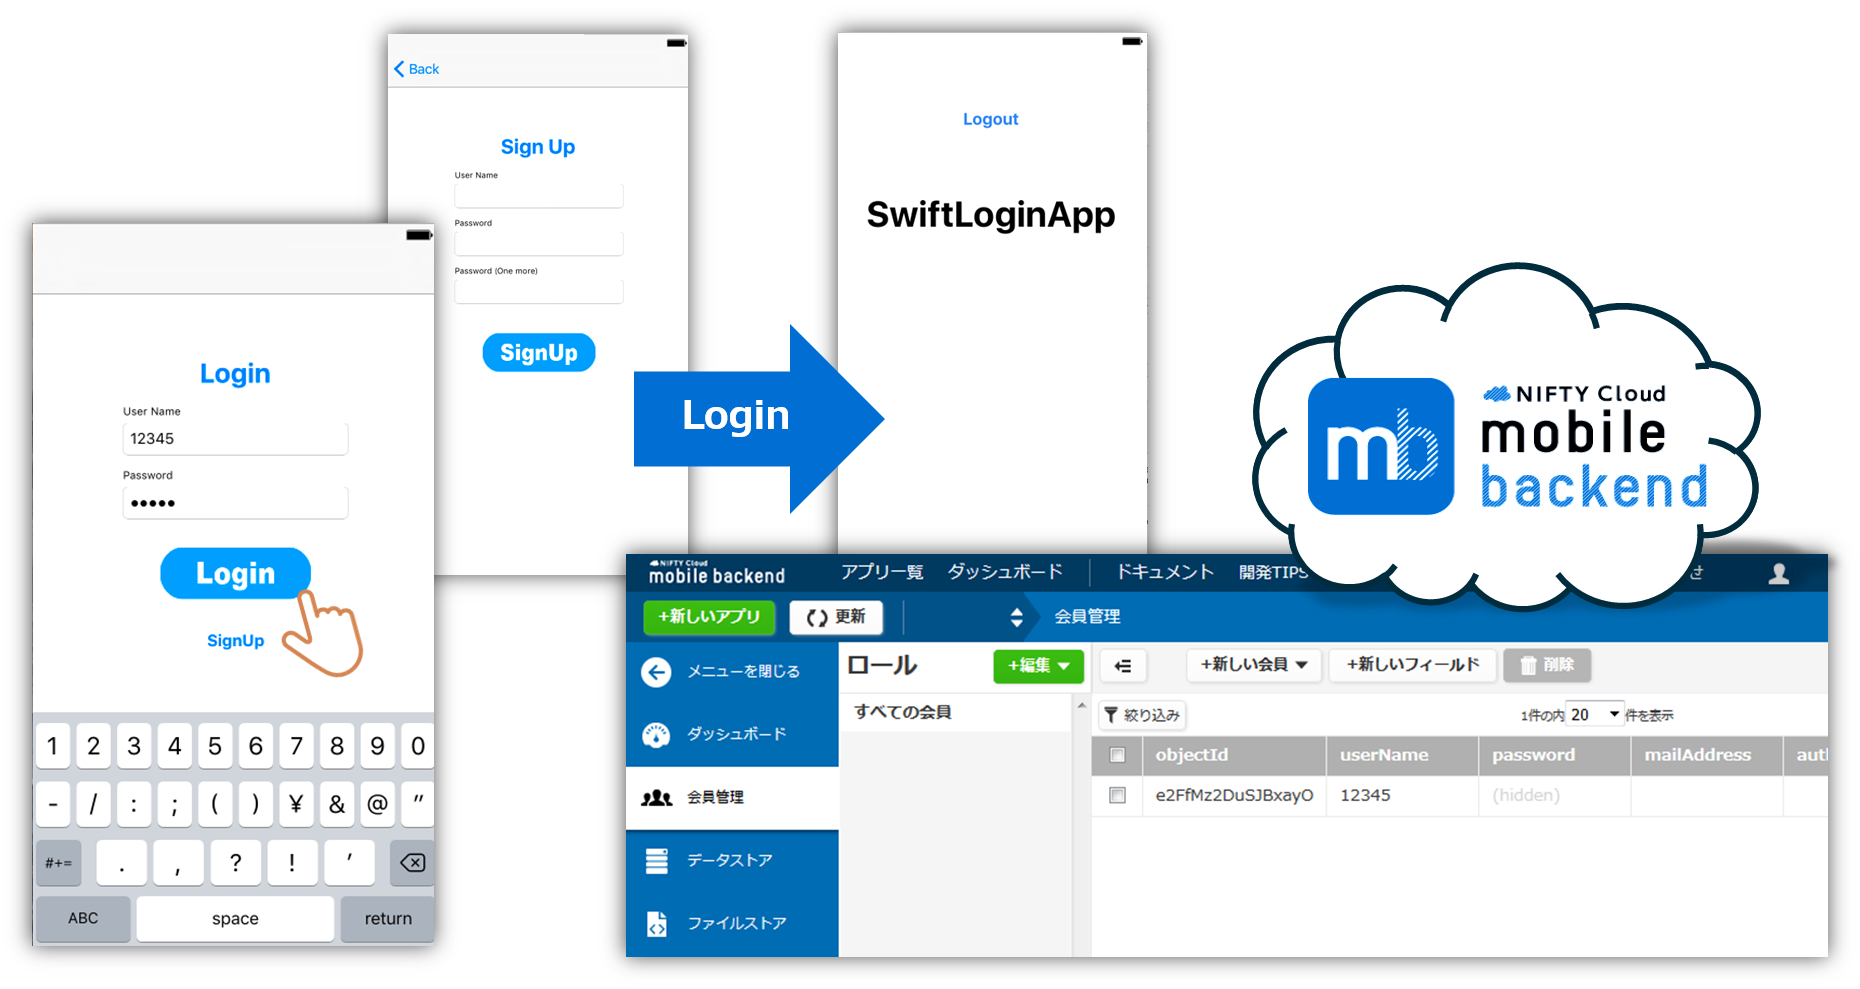
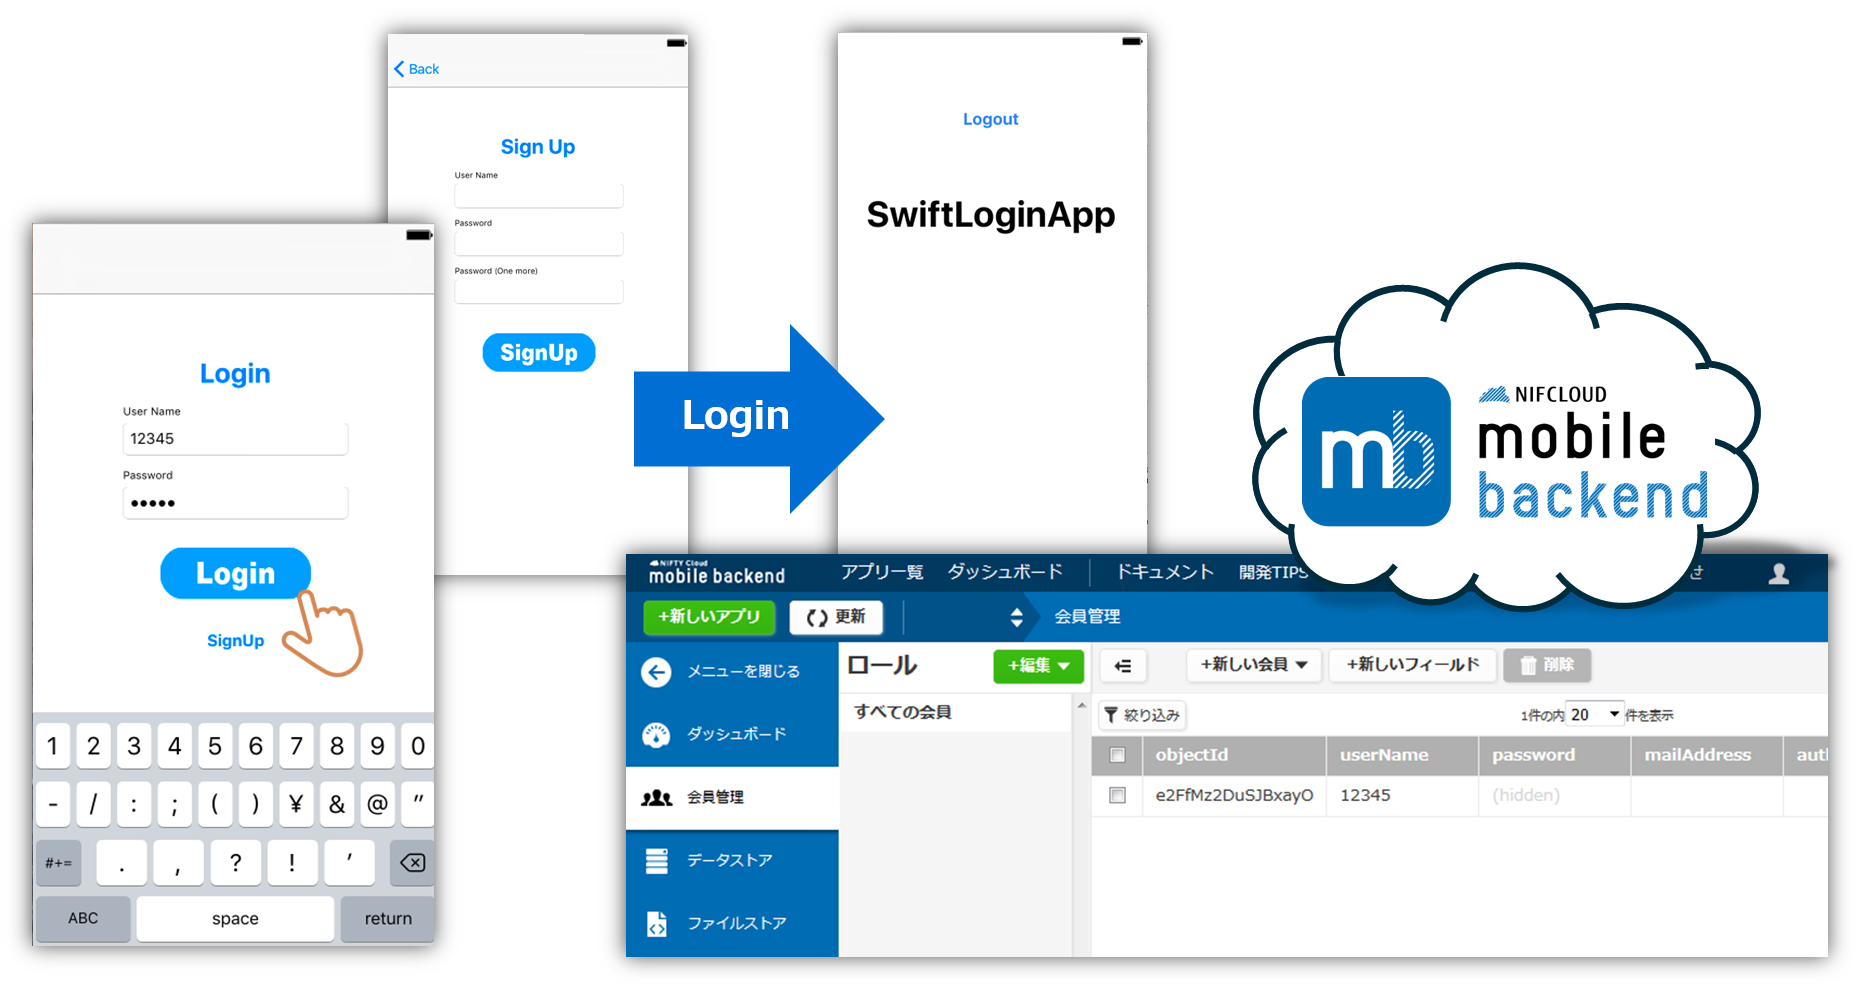
update readme

Changed region(s): [[0.686, 0.364, 0.9355, 0.546]]

diff --git a/README.md b/README.md
@@ -2,33 +2,33 @@
 ![画像1](/readme-img/001.png)
 
 ## 概要
-* [ニフティクラウドmobile backend](http://mb.cloud.nifty.com/)の『会員管理機能』を利用してSwiftアプリにログイン機能を実装したサンプルプロジェクトです
-* 簡単な操作ですぐに [ニフティクラウドmobile backend](http://mb.cloud.nifty.com/)の機能を体験いただけます★☆
+* [ニフクラmobile backend](https://mbaas.nifcloud.com)の『会員管理機能』を利用してSwiftアプリにログイン機能を実装したサンプルプロジェクトです
+* 簡単な操作ですぐに [ニフクラmobile backend](https://mbaas.nifcloud.com)の機能を体験いただけます★☆
 
-## ニフティクラウドmobile backendって何？？
+## ニフクラmobile backendって何？？
 スマートフォンアプリのバックエンド機能（プッシュ通知・データストア・会員管理・ファイルストア・SNS連携・位置情報検索・スクリプト）が**開発不要**、しかも基本**無料**(注1)で使えるクラウドサービス！
 
-注1：詳しくは[こちら](http://mb.cloud.nifty.com/price.htm)をご覧ください
+注1：詳しくは[こちら](https://mbaas.nifcloud.com/price.htm)をご覧ください
 
 ![画像2](/readme-img/002.png)
 
 ## 動作環境
-* Mac OS X 10.10(Yosemite)
-* Xcode ver. 7.2.1
-* Simulator ver. 9.2
+* Mac OS Mojave 10.14.4
+* Xcode ver.11.0 (11A420a)
+* Simulator iphone 11 pro max
 
 ※上記内容で動作確認をしています。
 
 
 ## 手順
-### 1. [ニフティクラウドmobile backend](http://mb.cloud.nifty.com/)の会員登録とログイン→アプリ作成
+### 1. [ニフクラmobile backend](https://mbaas.nifcloud.com)の会員登録とログイン→アプリ作成
 
 * 上記リンクから会員登録（無料）をします。登録ができたらログインをすると下図のように「アプリの新規作成」画面が出るのでアプリを作成します
 
 ![画像3](/readme-img/003.png)
 
 * アプリ作成されると下図のような画面になります
-* この２種類のAPIキー（アプリケーションキーとクライアントキー）はXcodeで作成するiOSアプリに[ニフティクラウドmobile backend](http://mb.cloud.nifty.com/)を紐付けるために使用します
+* この２種類のAPIキー（アプリケーションキーとクライアントキー）はXcodeで作成するiOSアプリに[ニフクラmobile backend](https://mbaas.nifcloud.com)を紐付けるために使用します
 
 ![画像4](/readme-img/004.png)
 
@@ -53,7 +53,7 @@
 ### 4. APIキーの設定
 
 * `AppDelegate.swift`を編集します
-* 先程[ニフティクラウドmobile backend](http://mb.cloud.nifty.com/)のダッシュボード上で確認したAPIキーを貼り付けます
+* 先程[ニフクラmobile backend](https://mbaas.nifcloud.com)のダッシュボード上で確認したAPIキーを貼り付けます
 
 ![画像07](/readme-img/007.png)
 
@@ -71,7 +71,7 @@
  * その場合は[【Swift】SDKの読み込みにuse framework!が使えない場合の対処方法](http://goo.gl/Z1D0K3)をご覧いただき、別の読み込み方法をお試しください
 
 * シミュレーターが起動したら、Login画面が表示されます
-* 初回は__`SignUp`__ ボタンをクリックして、会員登録を行います
+* 初回は`SignUp`ボタンをクリックして、会員登録を行います
 
 ![画像14](/readme-img/014.png)
 
@@ -79,7 +79,7 @@
 * 会員登録が成功するとログインされ、下記画面が表示されます
  * このときmBaaS上に会員情報が作成されます！
  * ログインに失敗した場合は画面にエラーコードが表示されます
- * 万が一エラーが発生した場合は、[こちら](http://mb.cloud.nifty.com/doc/current/rest/common/error.html)よりエラー内容を確認いただけます
+ * 万が一エラーが発生した場合は、[こちら](https://mbaas.nifcloud.com/doc/current/rest/common/error.html)よりエラー内容を確認いただけます
 
 ![画像15](/readme-img/015.png)
 
@@ -88,7 +88,7 @@
 
 -----
 
-* 保存に成功したら、[ニフティクラウドmobile backend](http://mb.cloud.nifty.com/)のダッシュボードから「会員管理」を確認してみましょう！
+* 保存に成功したら、[ニフクラmobile backend](https://mbaas.nifcloud.com)のダッシュボードから「会員管理」を確認してみましょう！
 
 ![画像1](/readme-img/001.png)
 
@@ -96,7 +96,7 @@
 サンプルプロジェクトに実装済みの内容のご紹介
 
 #### SDKのインポートと初期設定
-* ニフティクラウドmobile backend の[ドキュメント（クイックスタート）](http://mb.cloud.nifty.com/doc/current/introduction/quickstart_ios.html)をSwift版に書き換えたドキュメントをご用意していますので、ご活用ください
+* ニフクラmobile backend の[ドキュメント（クイックスタート）](https://mbaas.nifcloud.com/doc/current/introduction/quickstart_swift.html)をSwift版に書き換えたドキュメントをご用意していますので、ご活用ください
  * [SwiftでmBaaSを始めよう！(＜CocoaPods＞でuse_framewoks!を有効にした方法)](http://qiita.com/natsumo/items/57d3a4d9be16b0490965)
  * [＜CocoaPods＞SwiftでmBaaSを始めよう！](http://qiita.com/natsumo/items/b2d18d87d57300c8d81c)
 
@@ -142,7 +142,7 @@ NCMBUser.logOut()
 ```
 
 ## 参考
-* ニフティクラウドmobile backend の[ドキュメント（会員管理）](http://mb.cloud.nifty.com/doc/current/user/basic_usage_ios.html)をSwift版に書き換えたドキュメントをご用意していますので、ご活用ください
+* ニフクラmobile backend の[ドキュメント（会員管理）](https://mbaas.nifcloud.com/doc/current/script/basic_usage_swift.html)をSwift版に書き換えたドキュメントをご用意していますので、ご活用ください
  * [Swiftでログイン機能をつけてみよう！](http://qiita.com/natsumo/items/25c97182fab4db5629b1)
 * 同じ内容の【Objective-C】版もご用意しています
  * https://github.com/natsumo/ObjcLoginApp
